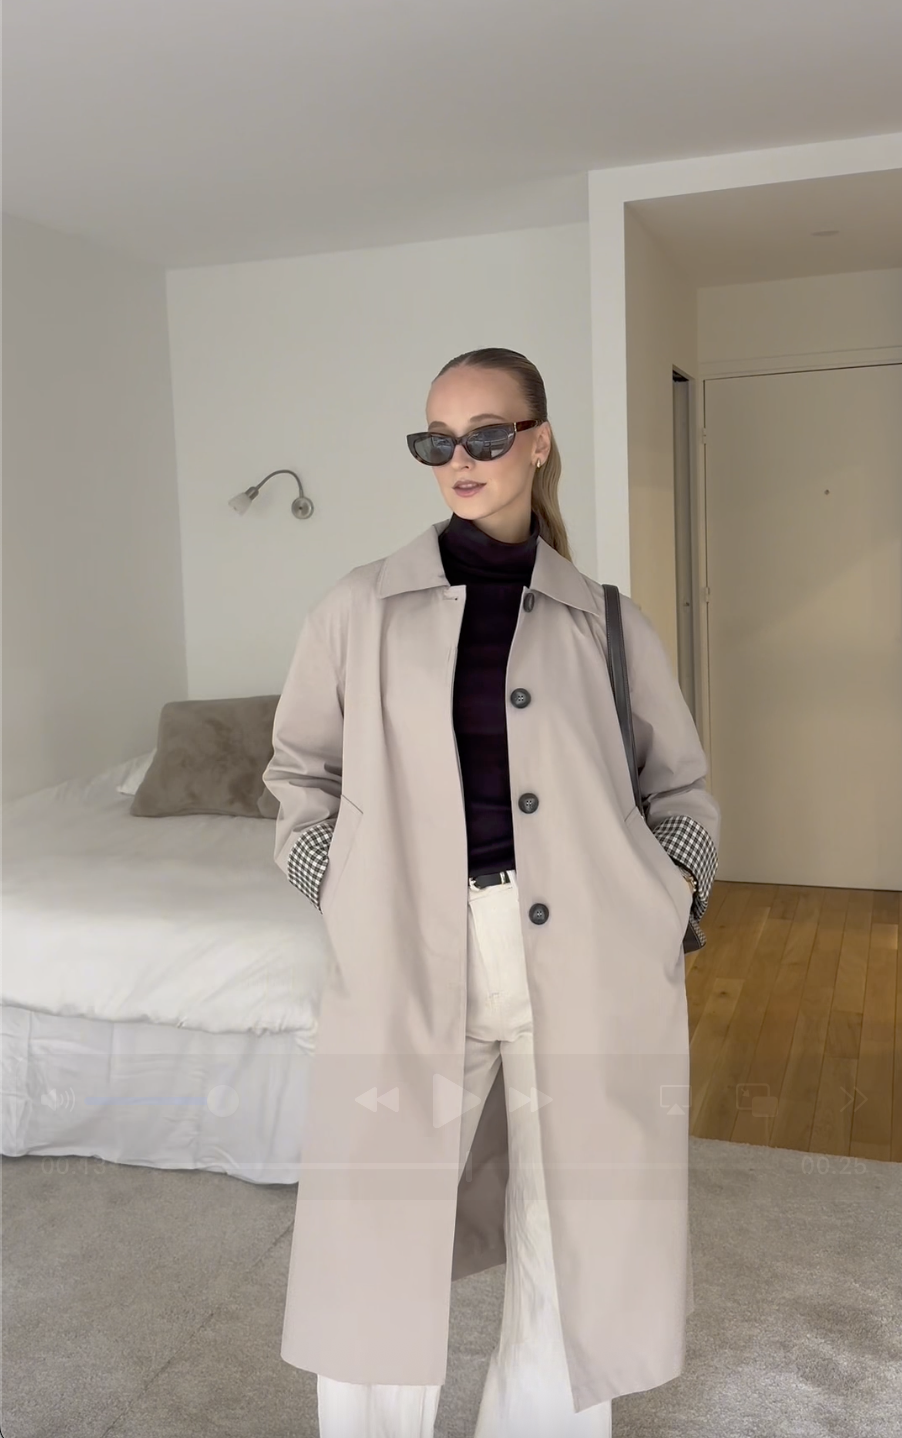
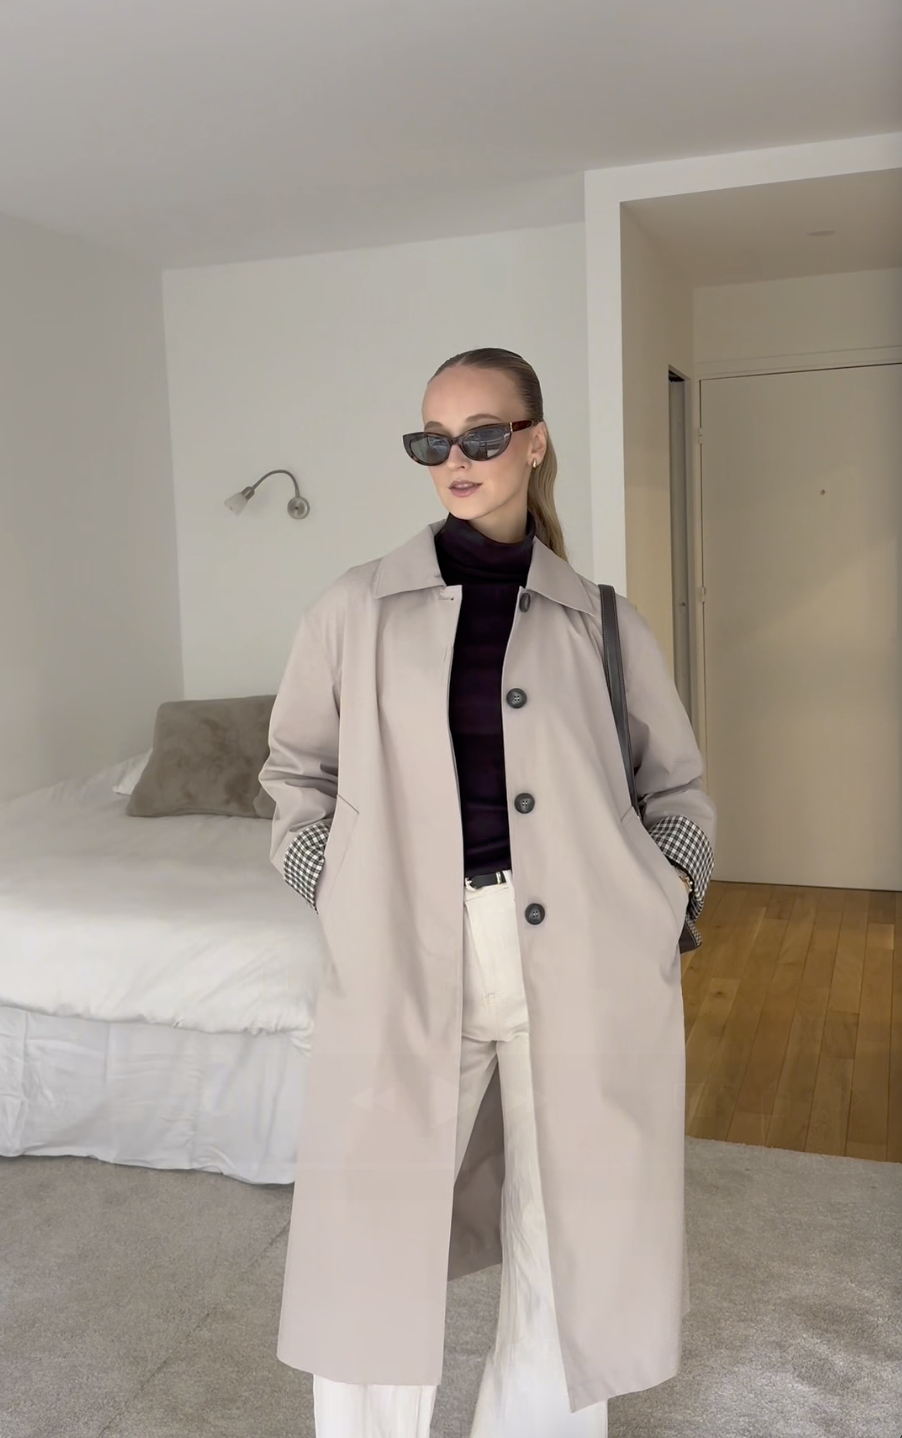
Opdagering

diff --git a/css.css b/css.css
@@ -184,7 +184,7 @@ button {
     left: 50%;
     transform: translateX(-28%); /* centrer hele dropdownen */
     width: 1400px;               /* fast bredde */
-    height: 420px;               /* fast højde */
+    height: 350px;               /* fast højde */
     
     background-color: #ffffff;
     padding: 1rem;
@@ -465,34 +465,6 @@ button {
 .total-price {
     padding: 3.5px 0;
     margin: 0;
-}
-
-/* ------------------------------------------------ */
-/* RESPONSIVE                                       */
-/* ------------------------------------------------ */
-
-@media (max-width: 1100px) {
-    .influencer-container {
-        flex-direction: column;
-    }
-
-    .influencer-sidebar {
-        flex-basis: auto;
-    }
-
-    .influencer-grid {
-        grid-template-columns: repeat(2, minmax(0, 1fr));
-    }
-}
-
-@media (max-width: 700px) {
-    .influencer-container {
-        padding: 0 16px;
-    }
-
-    .influencer-grid {
-        grid-template-columns: 1fr;
-    }
 }
 
 
@@ -933,28 +905,4 @@ button {
 @keyframes popup-fade {
     from { opacity: 0; transform: translateY(-10px); }
     to   { opacity: 1; transform: translateY(0); }
-}
-
-
-/* RESPONSIVT (basic) */
-
-@media (max-width: 1100px) {
-    .detail-container {
-        flex-direction: column;
-    }
-
-    .detail-left,
-    .detail-right {
-        flex: 1 1 auto;
-    }
-}
-
-@media (max-width: 800px) {
-    .detail-products {
-        grid-template-columns: 1fr;
-    }
-
-    .detail-container {
-        padding: 0 16px;
-    }
 }

diff --git a/fahlstromjohanna.html b/fahlstromjohanna.html
@@ -150,11 +150,11 @@
                         </button>
     
                         <button class="gallery-item">
-                            <img src="images/styles/@ebbablombergs-styles/@ebbablombergs_01.webp" alt="Look 2">
+                            <img src="images/styles/@fahlstromjohonna-styles/fahlstromjohonna_01.png" alt="Look 2">
                         </button>
     
                         <button class="gallery-item">
-                            <img src="images/styles/@ebbablombergs-styles/@ebbablombergs_02.webp" alt="Look 3">
+                            <img src="images/styles/@fahlstromjohonna-styles/fahlstromjohonna_02.png" alt="Look 3">
                         </button>
     
                         <!-- <button class="gallery-arrow down"><img src="images/arrow.svg" alt="pil"></button> -->
